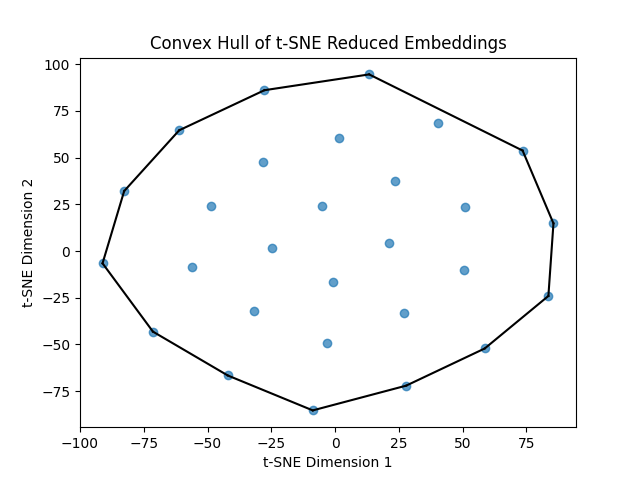
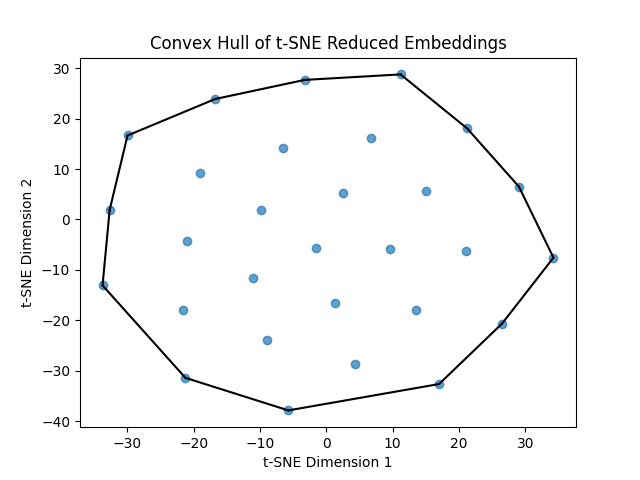
a

diff --git a/compare_texts.py b/compare_texts.py
@@ -1,0 +1,113 @@
+import numpy as np
+from scipy.spatial.distance import cdist
+from scipy.spatial import ConvexHull
+from sklearn.manifold import TSNE
+import matplotlib.pyplot as plt
+from tabulate import tabulate
+from model_llm import ModelLLM
+from scipy.spatial import ConvexHull
+from sklearn.decomposition import FastICA
+from sklearn.decomposition import PCA
+
+class CompareText:
+    def __init__(self, model_llm):
+        self.model_llm = model_llm
+
+    def read_text(self, file_path):
+        try:
+            with open(file_path, 'r') as file:
+                return file.read()
+        except IOError:
+            print(f"Error: File {file_path} not accessible or does not exist.")
+            return ""
+
+    def plot_convex_hull_comparison(self, file_path1, file_path2):
+        text1 = self.read_text(file_path1)
+        embeddings1 = self.model_llm.get_embeddings_from_input(text1)[0]
+
+        text2 = self.read_text(file_path2)
+        embeddings2 = self.model_llm.get_embeddings_from_input(text2)[0]
+
+        # Determine suitable perplexity values
+        perplexity1 = min(30, len(embeddings1) - 1)
+        perplexity2 = min(30, len(embeddings2) - 1)
+
+        tsne = TSNE(n_components=2, random_state=0)
+
+        # Apply t-SNE with adjusted perplexity for each set of embeddings
+        reduced_embeddings1 = tsne.set_params(perplexity=perplexity1).fit_transform(embeddings1)
+        reduced_embeddings2 = tsne.set_params(perplexity=perplexity2).fit_transform(embeddings2)
+
+        # Compute the convex hulls
+        hull1 = ConvexHull(reduced_embeddings1)
+        hull2 = ConvexHull(reduced_embeddings2)
+
+        # Plot the embeddings and convex hulls
+        plt.scatter(reduced_embeddings1[:, 0], reduced_embeddings1[:, 1], alpha=0.7, color='blue', label='Text 1: Original')
+        plt.scatter(reduced_embeddings2[:, 0], reduced_embeddings2[:, 1], alpha=0.7, color='green', label='Text 2: Generated')
+
+        for simplex in hull1.simplices:
+            plt.plot(reduced_embeddings1[simplex, 0], reduced_embeddings1[simplex, 1], 'k-')
+
+        for simplex in hull2.simplices:
+            plt.plot(reduced_embeddings2[simplex, 0], reduced_embeddings2[simplex, 1], 'k-')
+
+        # Additional plot settings
+        plt.title('t-SNE Convex Hull Comparison')
+        plt.xlabel('t-SNE Dimension 1')
+        plt.ylabel('t-SNE Dimension 2')
+        plt.legend()
+        plt.savefig('./results/tsne_compare.png')
+        print('plot salvo')
+
+    def compare_geometric_metrics(self, file_path1, file_path2):
+        text1 = self.read_text(file_path1)
+        embeddings1 = self.model_llm.get_embeddings_from_input(text1)
+
+        text2 = self.read_text(file_path2)
+        embeddings2 = self.model_llm.get_embeddings_from_input(text2)
+
+        metrics1 = self.compute_geometric_metrics(embeddings1)
+        metrics2 = self.compute_geometric_metrics(embeddings2)
+
+        headers = ["Metric", "Text 1", "Text 2"]
+        table = [
+            ["Mean Distance from Centroid", metrics1["mean_distance"], metrics2["mean_distance"]],
+            ["Convex Hull Volume", metrics1["volume"], metrics2["volume"]],
+            ["Convex Hull Area", metrics1["area"], metrics2["area"]]
+        ]
+
+        print(tabulate(table, headers, tablefmt="grid"))
+
+    def compute_geometric_metrics(self, embeddings):
+        if embeddings.ndim > 2:
+            embeddings = embeddings.reshape(-1, embeddings.shape[-1])
+
+        centroid = np.mean(embeddings, axis=0)
+        distances = cdist(embeddings, [centroid], 'euclidean')
+        mean_distance = np.mean(distances)
+
+        # Determine the number of PCA components based on the number of samples
+        n_components = min(embeddings.shape[0], 9)
+
+        # Dimensionality reduction using PCA
+        pca = PCA(n_components=n_components, random_state=0)
+        reduced_embeddings = pca.fit_transform(embeddings)
+        # Compute the convex hull
+        hull = ConvexHull(reduced_embeddings)
+
+        # Calculate volume and area of the convex hull
+        volume = hull.volume
+        area = hull.area
+
+        return {"mean_distance": mean_distance, "volume": volume, "area": area}
+
+# Example usage
+model_llm = ModelLLM("meta-llama/Llama-2-7b-chat-hf", "./results/")
+compare_text = CompareText(model_llm)
+file_path1 = "example.txt"
+file_path2 = "output.txt"
+
+compare_text.compare_geometric_metrics(file_path1, file_path2)
+compare_text.plot_convex_hull_comparison(file_path1, file_path2)
+

diff --git a/geometric_metrics_llm.py b/geometric_metrics_llm.py
@@ -1,84 +1,67 @@
 import numpy as np
 from scipy.spatial.distance import cdist
-from model_llm import ModelLLM
 from scipy.spatial import ConvexHull
-from sklearn.decomposition import FastICA
 from sklearn.decomposition import PCA
 from sklearn.manifold import TSNE
 import matplotlib.pyplot as plt
+from model_llm import ModelLLM
 
 class LLMGeometricMetrics:
     def __init__(self, model_name):
         self.model_llm = ModelLLM(model_name, '/results')
+        self.input_text = ""
 
-    def get_mean_distance_from_centroid(self, text):
-        # Generate embeddings using ModelLLM
-        embeddings = self.model_llm.generate_embeddings(text)
+    def read_text(self, file_path):
+        try:
+            with open(file_path, 'r') as file:
+                self.input_text = file.read()
+        except IOError:
+            print(f"Error: File {file_path} not accessible or does not exist.")
+            self.input_text = ""
 
-        # Reshape embeddings to 2D (if needed)
+    def get_mean_distance_from_centroid(self):
+        embeddings = self.model_llm.generate_embeddings(self.input_text)
+
         if embeddings.ndim > 2:
             embeddings = embeddings.reshape(-1, embeddings.shape[-1])
 
-        # Calculate centroid of the embeddings (along the second axis)
         centroid = np.mean(embeddings, axis=0)
-
-        # Calculate distances from each embedding to the centroid
         distances = cdist(embeddings, [centroid], 'euclidean')
-
-        # Compute mean distance
         mean_distance = np.mean(distances)
         return mean_distance
 
-    def get_convex_hull_metrics(self, text):
-        # Generate embeddings using ModelLLM
-        embeddings = self.model_llm.generate_embeddings(text)
+    def get_convex_hull_metrics(self):
+        embeddings = self.model_llm.generate_embeddings(self.input_text)
 
-        # Reshape embeddings to 2D (if needed)
         if embeddings.ndim > 2:
             embeddings = embeddings.reshape(-1, embeddings.shape[-1])
 
-        # Determine the number of PCA components based on the number of samples
         n_components = min(embeddings.shape[0], 9)
-
-        # Dimensionality reduction using PCA
         pca = PCA(n_components=n_components, random_state=0)
         reduced_embeddings = pca.fit_transform(embeddings)
 
-        # Compute the convex hull
         hull = ConvexHull(reduced_embeddings)
-
-        # Calculate volume and area of the convex hull
         volume = hull.volume
         area = hull.area
 
         return volume, area
 
-    def plot_convex_hull(self, text):
-        # Generate embeddings using ModelLLM
-        embeddings = self.model_llm.generate_embeddings(text)
+    def plot_convex_hull(self):
+        embeddings = self.model_llm.generate_embeddings(self.input_text)
 
-        # Reshape embeddings to 2D (if needed)
         if embeddings.ndim > 2:
             embeddings = embeddings.reshape(-1, embeddings.shape[-1])
 
-        # Determine a suitable perplexity value (less than the number of samples)
         perplexity = min(30, len(embeddings) - 1)
-
-        # Apply t-SNE for dimensionality reduction to 2D
         tsne = TSNE(n_components=2, random_state=0, perplexity=perplexity)
         reduced_embeddings = tsne.fit_transform(embeddings)
 
-        # Compute the convex hull
         hull = ConvexHull(reduced_embeddings)
 
-        # Plot the embeddings
         plt.scatter(reduced_embeddings[:, 0], reduced_embeddings[:, 1], alpha=0.7)
-
-        # Plot the convex hull
         for simplex in hull.simplices:
             plt.plot(reduced_embeddings[simplex, 0], reduced_embeddings[simplex, 1], 'k-')
 
-        # Additional plot settings
         plt.title('Convex Hull of t-SNE Reduced Embeddings')
         plt.xlabel('t-SNE Dimension 1')
         plt.ylabel('t-SNE Dimension 2')
@@ -86,5 +69,12 @@ class LLMGeometricMetrics:
 
 # Example usage
 geometric_metrics = LLMGeometricMetrics('meta-llama/Llama-2-7b-chat-hf')
-text = "Complete o texto a seguir: tenho por dom a paixao, nas queimadas de tronco seco"
-geometric_metrics.plot_convex_hull(text)
+file_path = "example.txt"
+geometric_metrics.read_text(file_path)
+mean_distance = geometric_metrics.get_mean_distance_from_centroid()
+print("Mean Distance from Centroid:", mean_distance)
+volume, area = geometric_metrics.get_convex_hull_metrics()
+print("Convex Hull Volume:", volume)
+print("Convex Hull Area:", area)
+geometric_metrics.plot_convex_hull()
+

diff --git a/model_llm.py b/model_llm.py
@@ -12,6 +12,7 @@ class ModelLLM:
         self.tokenizer = AutoTokenizer.from_pretrained(model_name)
         self.model = AutoModelForCausalLM.from_pretrained(model_name, device_map='auto', torch_dtype=torch.float16)
         self.model.eval()
+        self.save_results_path = save_results_path
 
     def generate_text(self, input_prompt, max_new_tokens=30):
         model_input = self.tokenizer(input_prompt, return_tensors="pt").to("cuda")
@@ -33,8 +34,24 @@ class ModelLLM:
             embeddings = outputs.hidden_states[-1].cpu().numpy()
         return embeddings
 
-    def save_results(self, generated_text, generated_embeddings, generated_tokens):
-        with h5py.File(file_name, 'w') as f:
+    def get_embeddings_from_input(self, input_text):
+        model_input = self.tokenizer(input_text, return_tensors="pt").to("cuda")
+        with torch.no_grad():
+            outputs = self.model(**model_input, output_hidden_states=True)
+            input_embeddings = outputs.hidden_states[-1].cpu().numpy()
+        return input_embeddings
+
+    def save_results(self, file_name, generated_text, generated_tokens, generated_embeddings):
+        with h5py.File(self.save_results_path + file_name, 'w') as f:
             f.create_dataset('generated_text', data=np.string_(generated_text))
-            f.create_dataset('tokens', data=generate_tokens.cpu().numpy())
+            f.create_dataset('tokens', data=generated_tokens.cpu().numpy())
             f.create_dataset('embeddings', data=generated_embeddings)
+
+# Example usage
+model_llm = ModelLLM("meta-llama/Llama-2-7b-chat-hf", "./results/")
+input_text = "Complete o texto a seguir: tenho por dom a paixao, nas queimadas de tronco seco"
+text = model_llm.generate_text(input_text)
+print(text)
+input_embeddings = model_llm.get_embeddings_from_input(input_text)
+print(input_embeddings.shape)
+
